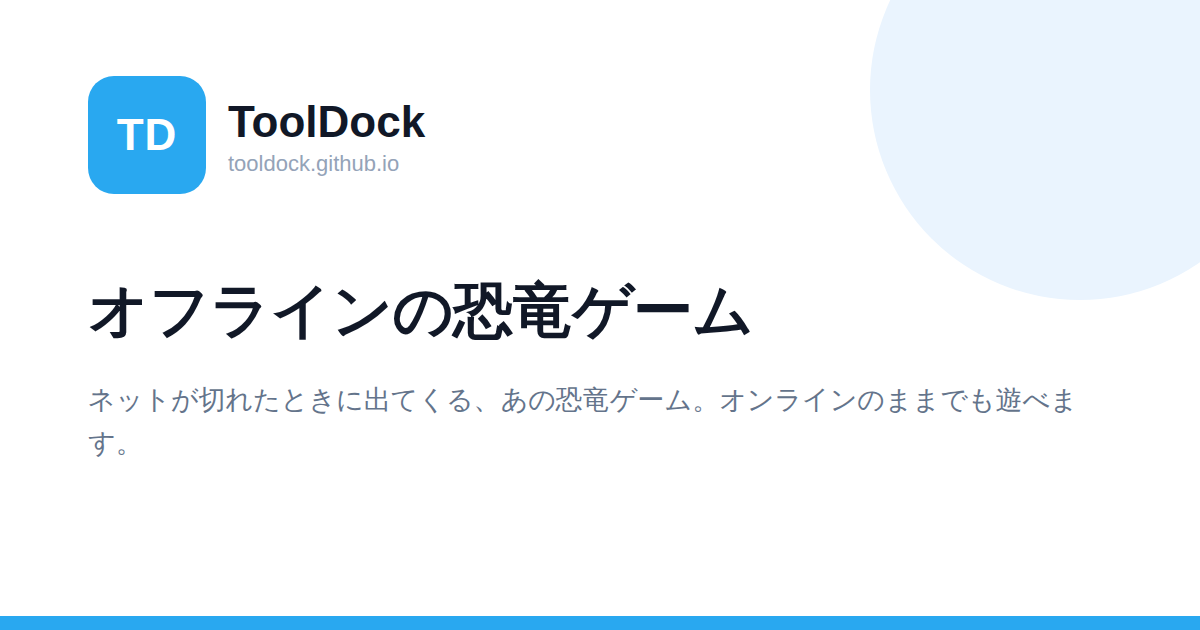
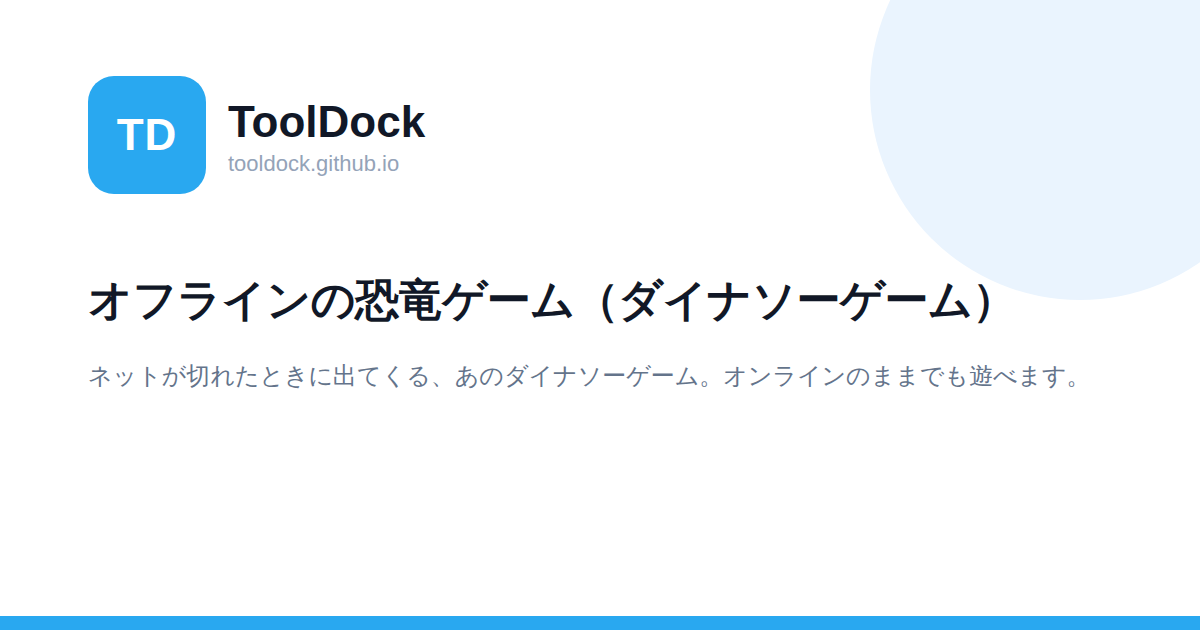
選択の虫眼鏡を消し、タイトルにダイナソーゲームを入れる (#17)
・ボタンのまわりを長押しすると、まだ選択の虫眼鏡が出ていた
  CSSの user-select は子孫にも配り直した。親に指定しただけでは
  効かない環境がある。そのうえで、ゲーム画面と操作ボタンの領域は
  touch イベントの既定動作そのものを止める（passive:false）。
  CSSだけでは虫眼鏡が出る端末があるため。
  止める範囲は画面と操作ボタンだけにした。説明文まで止めると
  そこから指を動かしてもページをスクロールできなくなる。
  ボタンを少し外して押しても受け止められるよう、
  操作パッド側に余白を持たせた。

・しゃがみの入口が3つあり、ボタンだけ挙動が違っていた
  ジャンプ中にボタンを押すと急降下するだけで、着地しても
  しゃがまなかった。startDuck() に集約し、キー・ボタン・
  画面ドラッグのどれでも同じ結果になるようにした。

・タイトルに「ダイナソーゲーム」を追加
  検索語としてはこちらのほうが強いので <title> の先頭に置き、
  見出しとツール名は括弧書きで併記した。OGP画像も作り直した。

Claude-Session: https://claude.ai/code/session_01SKh1jhAp32CEmbZCaaEmgk

Changed region(s): [[0.0617, 0.573, 0.8942, 0.6635], [0.0617, 0.4222, 0.8325, 0.5429], [0.0617, 0.6937, 0.0925, 0.7238]]

diff --git a/dino/index.html b/dino/index.html
@@ -5,7 +5,7 @@
 <meta charset="UTF-8">
 <meta name="viewport" content="width=device-width, initial-scale=1.0">
 
-<title>オフラインの恐竜ゲーム｜ネットにつながったまま遊べるダイナソーゲーム | ToolDock</title>
+<title>ダイナソーゲーム（オフラインの恐竜ゲーム）｜ネットにつながったまま遊べる | ToolDock</title>
 <meta name="description" content="ネットが切れたときに出てくる、あの恐竜（ダイナソー）ゲームをそのまま遊べるページです。オフラインにならなくても遊べます。スペースキーか画面タップでジャンプ、下キーでしゃがんで翼竜をよけます。ハイスコアはブラウザに保存され、登録もインストールも不要です。">
 <link rel="canonical" href="https://tooldock.github.io/dino/">
 
@@ -49,12 +49,21 @@ body{
     margin:8vh auto 0;
     padding:0 20px 40px;
 
-    /* ここは読みものではなく操作面。
-       長押しで文字が選択されるとゲームが操作できなくなるので、
-       ブロックごと選択の対象から外す（解説側は選択できるままにする） */
+}
+
+/* ここは読みものではなく操作面。
+   長押しで文字が選択されたり虫眼鏡が出るとゲームが操作できなくなる。
+   ブロックとその中身すべてを選択の対象から外す。
+   親に指定しただけでは子に効かない環境があるので、
+   子孫にも同じ指定を配る（解説側は選択できるままにする） */
+.interstitial-wrapper,
+.interstitial-wrapper *{
     -webkit-user-select:none;
+    -moz-user-select:none;
+    -ms-user-select:none;
     user-select:none;
     -webkit-touch-callout:none;
+    -webkit-tap-highlight-color:transparent;
 }
 
 /* --- ゲーム画面 --- */
@@ -64,6 +73,8 @@ body{
 .runner-stage{
     position:relative;
     margin:0 -20px 24px;
+    /* 画面まわりは長押し・スワイプ・拡大をすべてブラウザに渡さない */
+    touch-action:none;
 }
 
 .runner-stage.inverted{
@@ -160,7 +171,11 @@ kbd{
 .touch-pad{
     display:none;
     gap:10px;
-    margin:0 0 28px;
+    /* ボタンを少し外れて押しても、この余白がイベントを受け止める。
+       ボタンの「まわり」で長押しの虫眼鏡が出るのを防ぐ */
+    padding:10px 0 14px;
+    margin:0 0 14px;
+    touch-action:none;
 }
 
 .touch-pad button{
@@ -250,7 +265,7 @@ body.has-touch .touch-pad{
 
   <!-- ネットが切れたときの画面と同じ組みだが、
        本当に接続が切れていると誤解されないよう文言だけ差し替えている -->
-  <h1>オフラインの恐竜ゲーム</h1>
+  <h1>オフラインの恐竜ゲーム（ダイナソーゲーム）</h1>
 
   <p>
   ネットが切れたときに出てくる、あの恐竜のゲームです。<br>
@@ -791,6 +806,19 @@ function setSpeedDrop(){
   dino.velocity = 1;
 }
 
+/* しゃがみ始める。キー・ボタン・画面のドラッグで共通に使う。
+
+   空中なら急いで降りたうえで、着地後もしゃがんだままにする。
+   跳んでいる間は drawDino も当たり判定も ducking を見ないので、
+   ここで立てておいて問題ない。
+   「跳んでいるときは ducking を立てない」とすると、
+   押しっぱなしのまま着地したときに立ち上がってしまう */
+function startDuck(){
+  endJump();
+  if (dino.jumping) setSpeedDrop();
+  dino.ducking = true;
+}
+
 function updateDino(dt, deltaTime){
   if (dino.jumping){
 
@@ -1172,8 +1200,7 @@ document.addEventListener("keydown", e => {
   if (DUCK_KEYS.includes(e.code)){
     e.preventDefault();
     if (state !== "playing") return;
-    if (dino.jumping) setSpeedDrop();
-    else dino.ducking = true;
+    startDuck();
   }
 });
 
@@ -1189,9 +1216,29 @@ document.addEventListener("keyup", e => {
    ゲームの操作面では選択そのものを起こさせない。 */
 
 const wrapper = document.querySelector(".interstitial-wrapper");
+const touchPad = document.querySelector(".touch-pad");
 
 wrapper.addEventListener("contextmenu", e => e.preventDefault());
 wrapper.addEventListener("selectstart", e => e.preventDefault());
+wrapper.addEventListener("dragstart", e => e.preventDefault());
+
+/* CSSの user-select だけでは、長押ししたときの虫眼鏡（選択の拡大鏡）が
+   出る端末がある。touch イベントの既定動作そのものを止めると確実に消える。
+   passive:false でないと preventDefault が無視される点に注意。
+
+   ここで止めるのはゲーム画面と操作ボタンの領域だけ。
+   説明文のあたりまで止めると、そこから指を動かしても
+   ページをスクロールできなくなってしまう。 */
+
+function killTouchDefault(el){
+  if (!el) return;
+  for (const type of ["touchstart", "touchmove", "touchend"]){
+    el.addEventListener(type, e => e.preventDefault(), { passive: false });
+  }
+}
+
+killTouchDefault(stage);
+killTouchDefault(touchPad);
 
 /* 押している間ずっと、という操作を成立させるための約束。
    指がボタンからずれても、離すまで同じ要素にイベントを届ける */
@@ -1242,13 +1289,7 @@ canvas.addEventListener("pointermove", e => {
   if (e.clientY - touchStartY < DUCK_DRAG) return;
 
   touchDucking = true;
-  endJump();                          /* 上昇を打ち切る */
-  if (dino.jumping) setSpeedDrop();   /* 空中なら急いで降りる */
-
-  /* 着地後もしゃがんだままにする。
-     跳んでいる間は drawDino / 当たり判定がこの値を見ないので、
-     ここで立てておいて問題ない */
-  dino.ducking = true;
+  startDuck();
 });
 
 function releaseCanvas(e){
@@ -1281,8 +1322,7 @@ btnDuck.addEventListener("pointerdown", e => {
   capture(e);
   duckPointerId = e.pointerId;
   if (state !== "playing") return;
-  if (dino.jumping) setSpeedDrop();
-  else dino.ducking = true;
+  startDuck();
 });
 
 function releaseDuck(e){

diff --git a/js/tool-data.js b/js/tool-data.js
@@ -286,9 +286,9 @@ window.TOOLS = [
 
   {
     id: "dino",
-    title: "オフラインの恐竜ゲーム",
-    desc: "ネットが切れたときに出てくる、あの恐竜ゲーム。オンラインのままでも遊べます。",
-    seoTitle: "オフラインの恐竜ゲーム｜ネットにつながったまま遊べるダイナソーゲーム",
+    title: "オフラインの恐竜ゲーム（ダイナソーゲーム）",
+    desc: "ネットが切れたときに出てくる、あのダイナソーゲーム。オンラインのままでも遊べます。",
+    seoTitle: "ダイナソーゲーム（オフラインの恐竜ゲーム）｜ネットにつながったまま遊べる",
     seoDesc: "ネットが切れたときにブラウザに出てくる、あの恐竜（ダイナソー）ゲームで遊べる無料ページ。オフラインにならなくても遊べます。スペースキーか画面タップでジャンプ、下キーでしゃがんで翼竜をよけます。ハイスコアはブラウザに保存され、登録もインストールも不要です。",
     category: "game",
     url: "/dino/"
